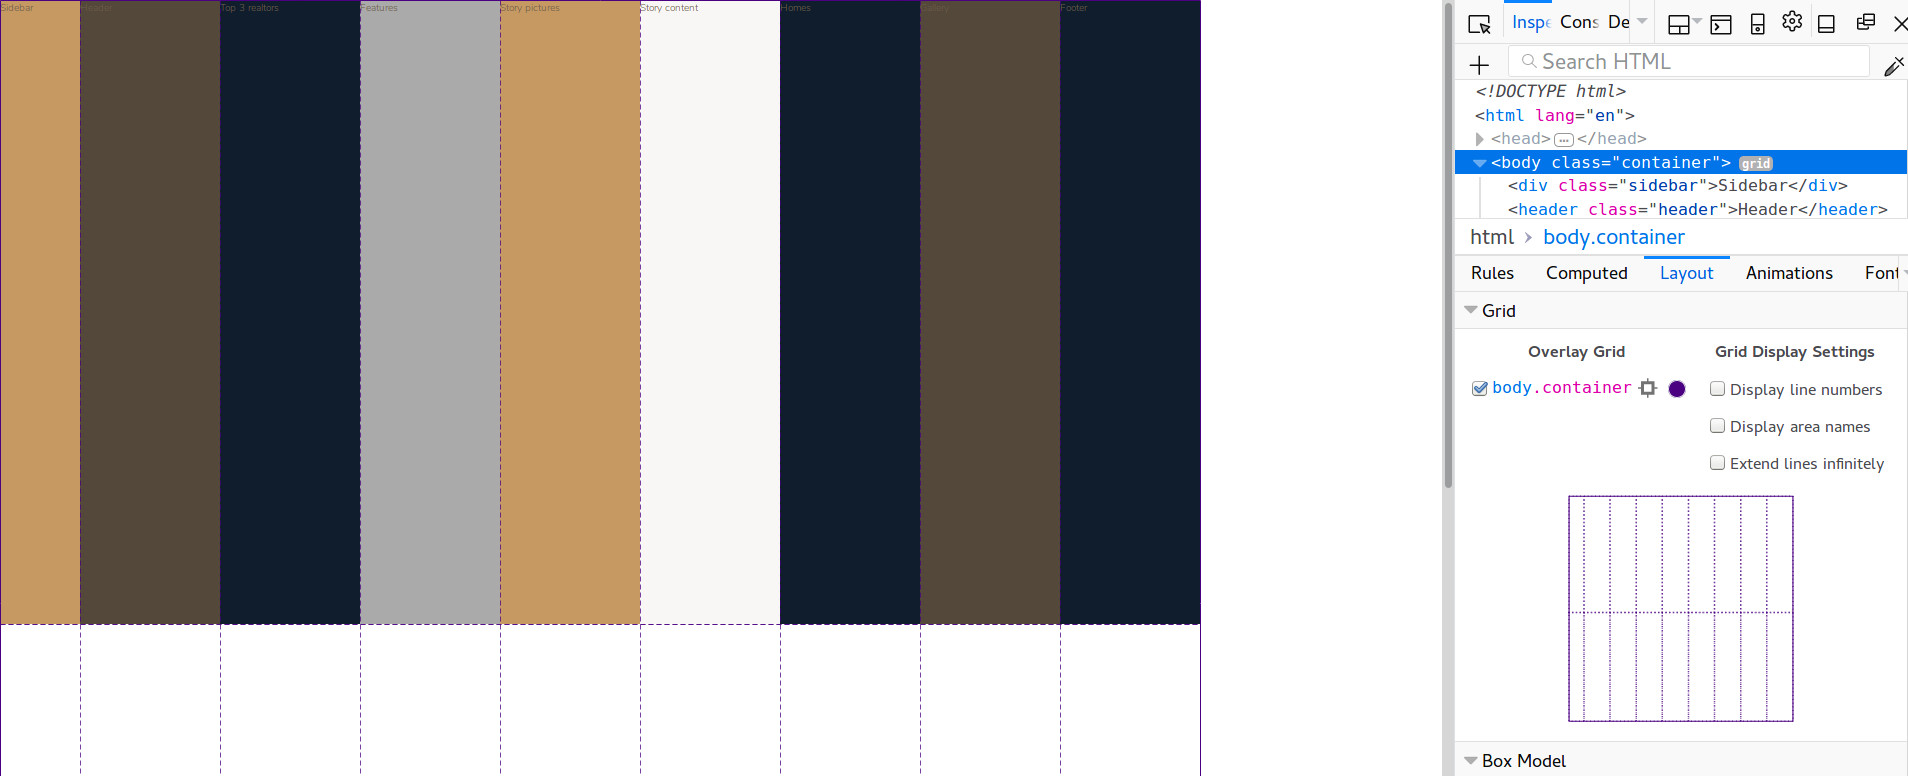
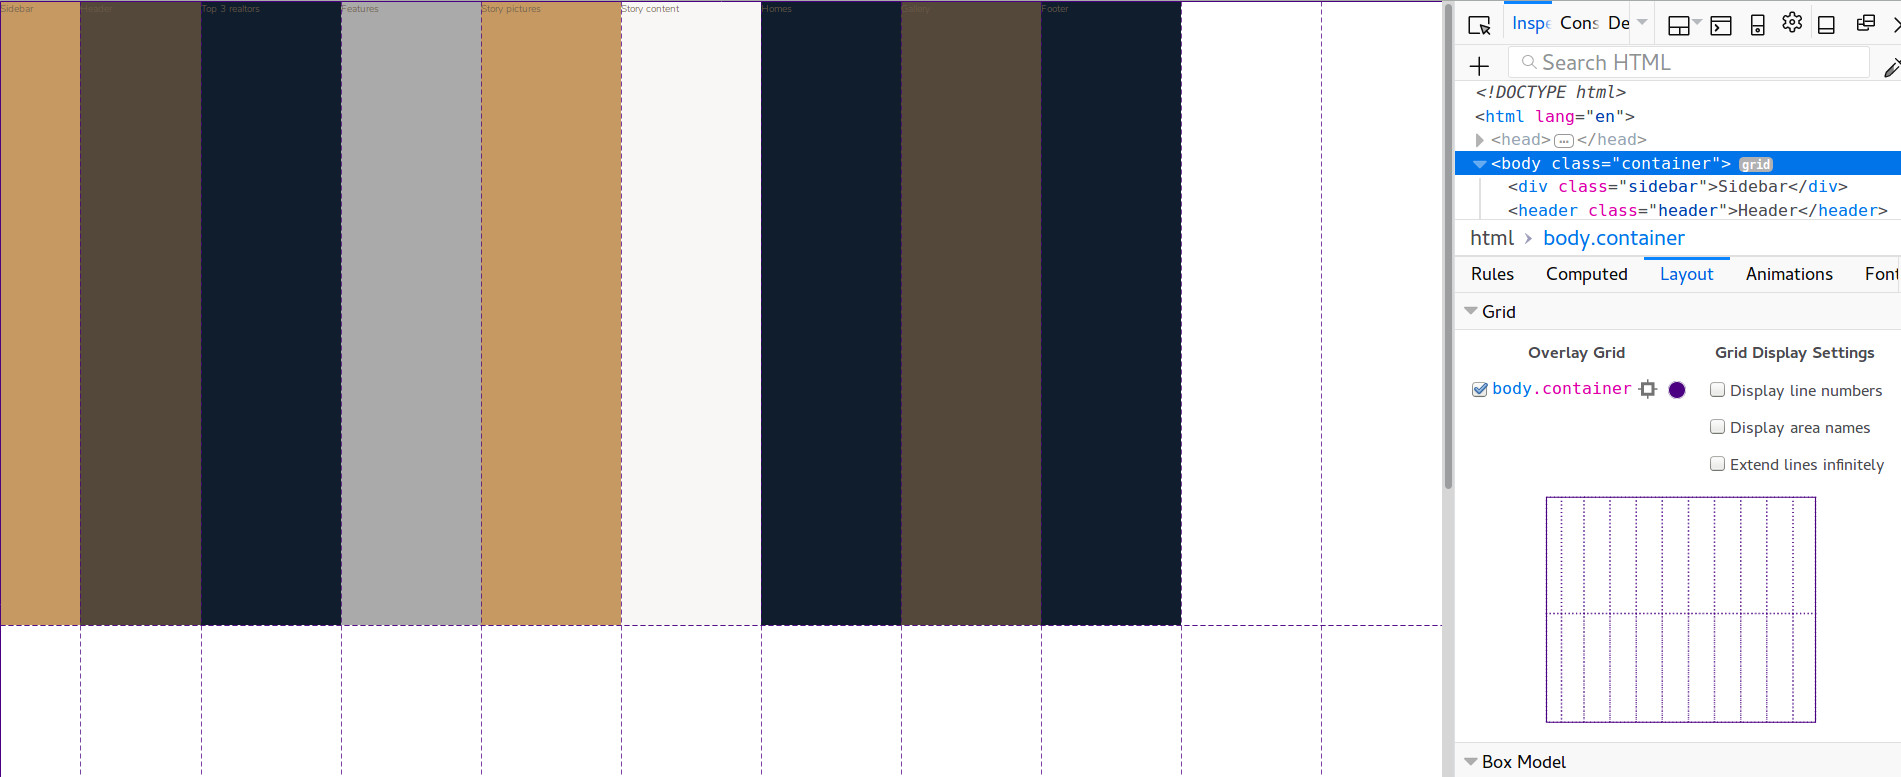
Name our columns

diff --git a/sass/_base.scss b/sass/_base.scss
@@ -37,5 +37,12 @@ body {
 .container {
   display: grid;
   grid-template-rows: 80vh min-content 40vw repeat(3, min-content);
-  grid-template-columns: 8rem 1fr repeat(8,  minmax(min-content, 14rem)) 1fr;
+  grid-template-columns: 
+    [sidebar-start] 8rem [sidebar-end full-start] 
+      1fr [center-start] 
+        repeat(8,  
+          [col-start] minmax(min-content, 14rem) [col-end]
+        ) 
+      [center-end] 1fr 
+    [full-end];
 }
